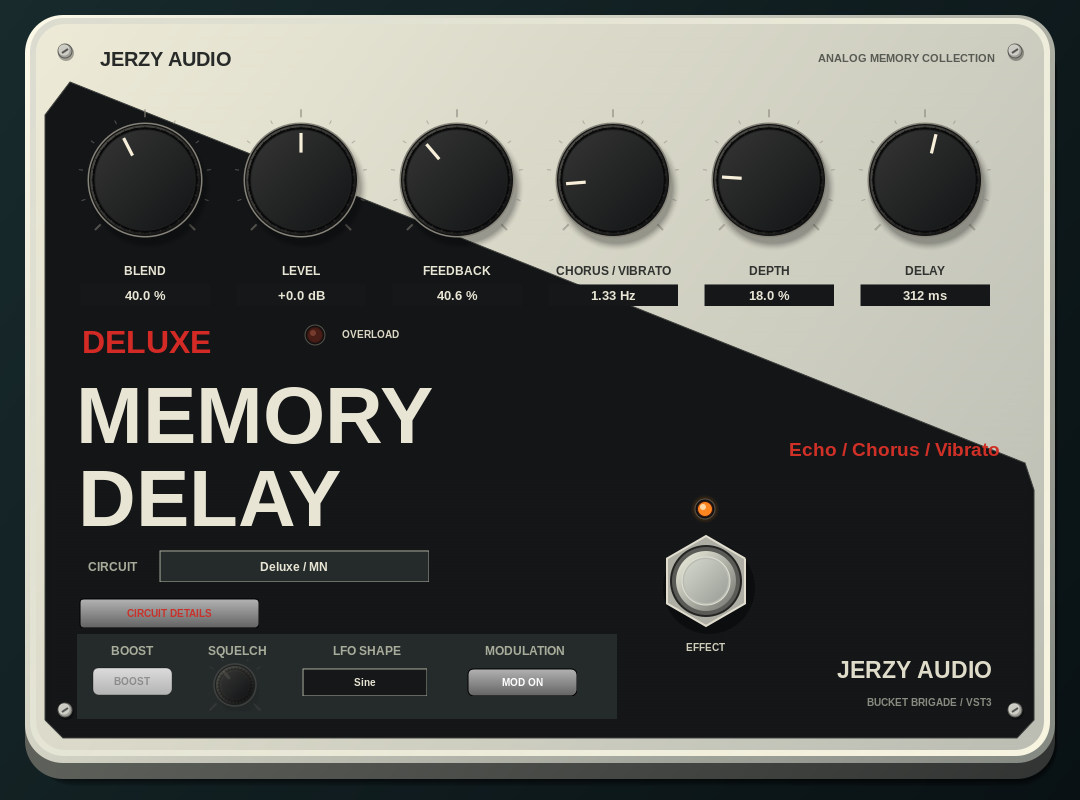
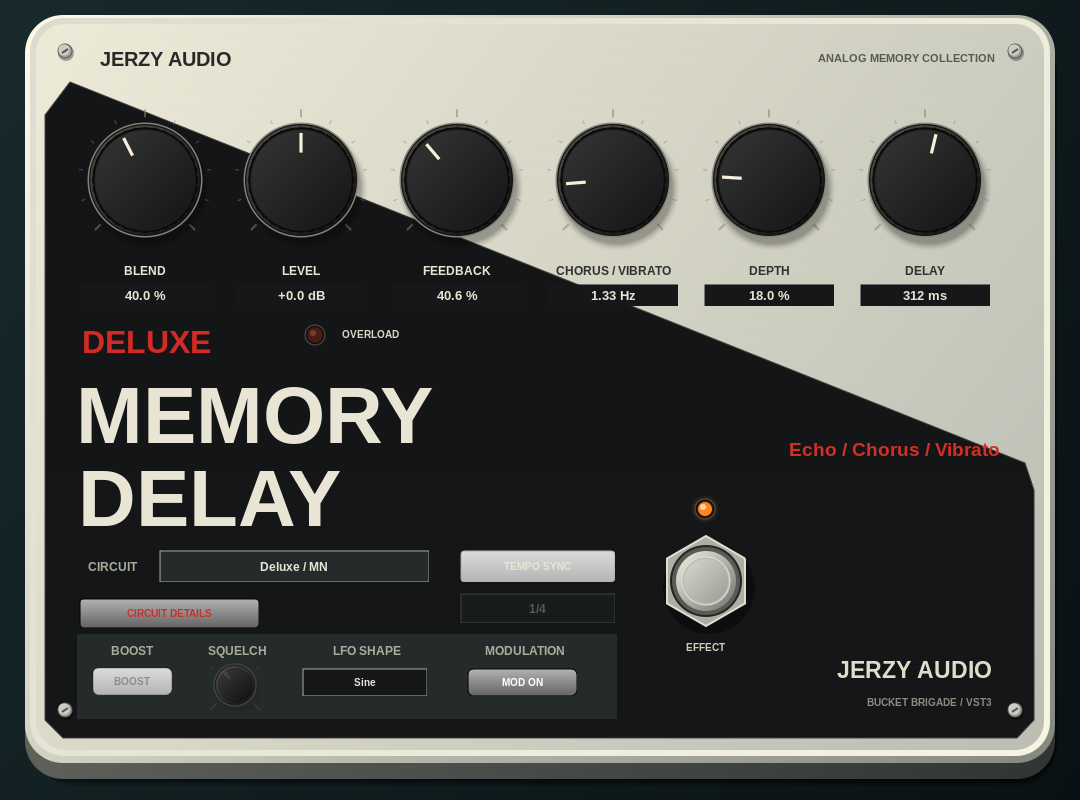
Add optional host tempo sync and 21 note divisions to all delay circuits

Changed region(s): [[0.4278, 0.6875, 0.5806, 0.7812]]

diff --git a/source/plugin.cpp b/source/plugin.cpp
@@ -5,6 +5,7 @@
 #include "public.sdk/source/main/pluginfactory.h"
 #include "base/source/fstreamer.h"
 #include "pluginterfaces/vst/ivstparameterchanges.h"
+#include "pluginterfaces/vst/ivstprocesscontext.h"
 #include "pluginterfaces/vst/vstspeaker.h"
 #if JERZY_GUI
 #include "vstgui/plugin-bindings/vst3editor.h"
@@ -21,15 +22,15 @@ static const FUID controllerID(0xBE7CA5D9,0xCA984617,0xB99A5712,0x2F38D819);
 bool readState(IBStream* stream,Parameters& p){
     if(!stream)return false;
     IBStreamer s(stream,kLittleEndian);int32 version=0;
-    if(!s.readInt32(version)||(version!=1&&version!=2))return false;
+    if(!s.readInt32(version)||(version<1||version>3))return false;
     Parameters next;
-    for(int i=0;i<(version==1?9:Count);++i){double v;if(!s.readDouble(v)||!std::isfinite(v))return false;next.set(i,v);}
+    for(int i=0;i<(version==1?9:version==2?12:Count);++i){double v;if(!s.readDouble(v)||!std::isfinite(v))return false;next.set(i,v);}
     p=next;return true;
 }
 class Processor final:public AudioEffect {
-    Parameters p;Engine engine;
+    Parameters p;Engine engine;double tempo=120.;
 public:
-    Processor(){setControllerClass(controllerID);}
+    Processor(){setControllerClass(controllerID);processContextRequirements.needTempo();}
     static FUnknown* create(void*){return static_cast<IAudioProcessor*>(new Processor);}
     tresult PLUGIN_API initialize(FUnknown* context) SMTG_OVERRIDE {
         auto r=AudioEffect::initialize(context);if(r!=kResultOk)return r;
@@ -46,10 +47,11 @@ public:
     tresult PLUGIN_API setState(IBStream* s) SMTG_OVERRIDE {return readState(s,p)?kResultOk:kResultFalse;}
     tresult PLUGIN_API getState(IBStream* stream) SMTG_OVERRIDE {
         if(!stream)return kResultFalse;IBStreamer s(stream,kLittleEndian);
-        if(!s.writeInt32(2))return kResultFalse;
+        if(!s.writeInt32(3))return kResultFalse;
         for(auto v:p.value)if(!s.writeDouble(v))return kResultFalse;return kResultOk;
     }
     tresult PLUGIN_API process(ProcessData& d) SMTG_OVERRIDE {
+        if(d.processContext&&(d.processContext->state&ProcessContext::kTempoValid)&&validTempo(d.processContext->tempo))tempo=d.processContext->tempo;
         if(d.symbolicSampleSize!=kSample32&&d.symbolicSampleSize!=kSample64)return kResultFalse;
         // Fixed-size queue cursors: no allocation, locks or sorting on the audio thread.
         std::array<IParamValueQueue*,Count> queues{};std::array<int32,Count> cursors{};
@@ -75,7 +77,7 @@ public:
                 if(d.symbolicSampleSize==kSample32){auto** b=d.inputs[0].channelBuffers32;if(!silent&&b&&b[c])input[c]=b[c][sample];}
                 else{auto** b=d.inputs[0].channelBuffers64;if(!silent&&b&&b[c])input[c]=b[c][sample];}
             }
-            engine.tick(input,output,ch,p);
+            engine.tick(input,output,ch,p,tempo);
             for(int c=0;c<ch;++c){
                 if(d.symbolicSampleSize==kSample32){auto** b=d.outputs[0].channelBuffers32;if(b&&b[c])b[c][sample]=static_cast<float>(output[c]);}
                 else{auto** b=d.outputs[0].channelBuffers64;if(b&&b[c])b[c][sample]=output[c];}
@@ -122,6 +124,10 @@ public:
         parameters.addParameter(STR16("Boost"),nullptr,1,defaults[Boost],ParameterInfo::kCanAutomate,Boost);
         parameters.addParameter(new RangeParameter(STR16("Squelch"),Squelch,STR16("%"),0,100,defaults[Squelch]*100));
         parameters.addParameter(STR16("Modulation"),nullptr,1,defaults[ModEnable],ParameterInfo::kCanAutomate,ModEnable);
+        parameters.addParameter(STR16("Tempo Sync"),nullptr,1,defaults[TempoSync],ParameterInfo::kCanAutomate,TempoSync);
+        auto* notes=new StringListParameter(STR16("Note Division"),Division);
+        for(const auto& note:divisions){String128 name{};UString(name,128).fromAscii(note.name);notes->appendString(name);}
+        notes->setNormalized(defaults[Division]);parameters.addParameter(notes);
         parameters.addParameter(STR16("Overload"),nullptr,0,0,ParameterInfo::kIsReadOnly,OverloadMeter);
         return kResultOk;
     }
@@ -141,7 +147,7 @@ public:
 }
 BEGIN_FACTORY_DEF("Jerzy Audio","","")
 DEF_CLASS2(INLINE_UID_FROM_FUID(Jerzy::processorID),PClassInfo::kManyInstances,kVstAudioEffectClass,
-    "Jerzy Memory Delay",Vst::kDistributable,"Fx|Delay","0.1.0",kVstVersionString,Jerzy::Processor::create)
+    "Jerzy Memory Delay",Vst::kDistributable,"Fx|Delay","0.1.1",kVstVersionString,Jerzy::Processor::create)
 DEF_CLASS2(INLINE_UID_FROM_FUID(Jerzy::controllerID),PClassInfo::kManyInstances,kVstComponentControllerClass,
-    "Jerzy Memory Delay Controller",0,"","0.1.0",kVstVersionString,Jerzy::Controller::create)
+    "Jerzy Memory Delay Controller",0,"","0.1.1",kVstVersionString,Jerzy::Controller::create)
 END_FACTORY

diff --git a/tests/host_tests.cpp b/tests/host_tests.cpp
@@ -3,9 +3,11 @@
 #include "public.sdk/source/vst/hosting/hostclasses.h"
 #include "public.sdk/source/vst/hosting/parameterchanges.h"
 #include "public.sdk/source/common/memorystream.h"
+#include "base/source/fstreamer.h"
 #include "pluginterfaces/vst/ivstaudioprocessor.h"
 #include "pluginterfaces/vst/ivsteditcontroller.h"
 #include "pluginterfaces/vst/vstspeaker.h"
+#include "pluginterfaces/vst/ivstprocesscontext.h"
 #include <iostream>
 #include <stdexcept>
 #include <cstring>
@@ -45,6 +47,15 @@ int main(int argc,char** argv){try{
  {ParameterChanges defaults(Jerzy::Count);for(int id=0;id<Jerzy::Count;++id)point(defaults,id,Jerzy::defaults[id]);data.inputParameterChanges=&defaults;processor->process(data);}
  component->getState(&initial);initial.seek(0,IBStream::kIBSeekSet,nullptr);controller->setComponentState(&initial);
  for(int id=0;id<Jerzy::Count;++id)check(std::abs(controller->getParamNormalized(id)-Jerzy::defaults[id])<1e-9,"default mismatch");
+ // Existing 0.1.0 sessions have version 2 and exactly 12 parameters.
+ // New sync controls must default to OFF / quarter note without shifting old IDs.
+ for(int version:{1,2}){
+  MemoryStream legacy;IBStreamer stream(&legacy,kLittleEndian);stream.writeInt32(version);
+  for(int id=0;id<(version==1?9:12);++id)stream.writeDouble(Jerzy::defaults[id]);
+  legacy.seek(0,IBStream::kIBSeekSet,nullptr);check(component->setState(&legacy)==kResultOk,"legacy processor state rejected");
+  legacy.seek(0,IBStream::kIBSeekSet,nullptr);check(controller->setComponentState(&legacy)==kResultOk,"legacy controller state rejected");
+  for(int id=0;id<Jerzy::Count;++id)check(std::abs(controller->getParamNormalized(id)-Jerzy::defaults[id])<1e-9,"legacy state changed defaults");
+ }
  // Real host buffers: both precisions, mono/stereo, true in-place operation.
  for(auto size:{kSample32,kSample64})for(int channels:{1,2}){
   SpeakerArrangement arrangement=channels==1?SpeakerArr::kMono:SpeakerArr::kStereo;
@@ -69,6 +80,27 @@ int main(int argc,char** argv){try{
   check(processor->process(data)==kResultOk,"sample-offset automation processing");
   for(int i=0;i<128;++i)check(std::abs((size==kSample32?double(f[0][i]):d[0][i])-.2)<1e-7,"automation applied before sample offset");
   check((size==kSample32?double(f[0][255]):d[0][255])<.19,"automation event not applied");
+  processor->setProcessing(false);component->setActive(false);
+ }
+ // Drive actual VST3 processContext tempo into the plugin, then change it.
+ SpeakerArrangement stereo=SpeakerArr::kStereo;processor->setBusArrangements(&stereo,1,&stereo,1);
+ ProcessSetup syncSetup{};syncSetup.processMode=kRealtime;syncSetup.symbolicSampleSize=kSample32;syncSetup.maxSamplesPerBlock=256;syncSetup.sampleRate=48000;
+ processor->setupProcessing(syncSetup);ProcessContext context{};context.state=ProcessContext::kTempoValid;
+ for(double bpm:{100.,150.}){
+  context.tempo=bpm;component->setActive(true);processor->setProcessing(true);
+  float samples[2][256]{};float* buffers[2]{samples[0],samples[1]};AudioBusBuffers bus{};bus.numChannels=2;bus.channelBuffers32=buffers;
+  data={};data.symbolicSampleSize=kSample32;data.numSamples=256;data.numInputs=data.numOutputs=1;data.inputs=data.outputs=&bus;data.processContext=&context;data.inputParameterChanges=&changes;
+  changes.clearQueue();for(int id=0;id<Jerzy::Count;++id)point(changes,id,Jerzy::defaults[id]);
+  point(changes,Jerzy::Blend,1);point(changes,Jerzy::Feedback,0);point(changes,Jerzy::Depth,0);point(changes,Jerzy::TempoSync,1);point(changes,Jerzy::Division,.3);
+  double peak=0.;int peakAt=0;
+  for(int block=0;block<140;++block){
+   for(auto& channel:samples)std::fill(std::begin(channel),std::end(channel),0.f);
+   if(block==0)samples[0][0]=.5f;
+   bus.silenceFlags=0;check(processor->process(data)==kResultOk,"host tempo processing");changes.clearQueue();
+   for(int i=0;i<256;++i)if(std::abs(samples[0][i])>peak){peak=std::abs(samples[0][i]);peakAt=block*256+i;}
+  }
+  const int expected=int(48000.*60./bpm);
+  check(peak>1e-8&&peakAt>=expected-2&&peakAt<expected+384,"host BPM not applied to sync delay");
   processor->setProcessing(false);component->setActive(false);
  }
  controller->terminate();component->terminate();controller=nullptr;processor=nullptr;component=nullptr;

diff --git a/source/dsp.h b/source/dsp.h
@@ -29,10 +29,10 @@ public:
     }
     double peak()const{return overload;}
     // Single-sample entry supports sample-offset host automation and in-place audio.
-    void tick(const double* input,double* output,int count,const Parameters& p){
+    void tick(const double* input,double* output,int count,const Parameters& p,double tempo=120.){
         if(channels[0].line.empty()){for(int c=0;c<count;++c)output[c]=input[c];return;}
         const double smoothing=1.-std::exp(-1./(.012*sr));
-        if(first){smooth=p.value;activeModel=p.model();delaySamples=std::min(delayMs(smooth[Delay]),profiles[activeModel].maxMs)*sr*.001;first=false;}
+        if(first){smooth=p.value;activeModel=p.model();delaySamples=requestedDelayMs(p,smooth[Delay],activeModel,tempo)*sr*.001;first=false;}
         // Switching physical circuits fades through dry audio and clears the old circuit.
         if(activeModel!=p.model()){
             modelFade=std::max(0.,modelFade-1./(.02*sr));
@@ -40,12 +40,12 @@ public:
                 for(auto& c:channels){std::fill(c.line.begin(),c.line.end(),0.);c.pre1=c.pre2=c.post1=c.post2=c.low=c.feedback=c.env=c.boostLow=c.previousCharge=c.heldCharge=c.oldHeldCharge=c.compressEnv=c.expandEnv=0.;}
                 pos=0;clockPhase=0.;
                 activeModel=p.model();
-                delaySamples=std::min(delayMs(smooth[Delay]),profiles[activeModel].maxMs)*sr*.001;
+                delaySamples=requestedDelayMs(p,smooth[Delay],activeModel,tempo)*sr*.001;
             }
         }else modelFade=std::min(1.,modelFade+1./(.02*sr));
         const auto& profile=profiles[activeModel];
         for(int i=0;i<Count;++i)smooth[i]+=smoothing*(p.value[i]-smooth[i]);
-        const double target=std::min(delayMs(smooth[Delay]),profile.maxMs)*sr*.001;
+        const double target=requestedDelayMs(p,smooth[Delay],activeModel,tempo)*sr*.001;
         delaySamples+=(1.-std::exp(-1./(.035*sr)))*(target-delaySamples);
         const double rate=.15+7.85*smooth[ModRate];
         phase+=rate/sr;if(phase>=1.)phase-=1.;
@@ -56,7 +56,8 @@ public:
         const double tickRate=profile.stages/std::max(2.,delaySamples*(1.+depth*lfo));
         const double initialPhase=clockPhase;
         // Tracking low-pass loses bandwidth as the BBD clock slows down.
-        const double cutoff=std::min(sr*.22,profile.bandwidth*std::sqrt(180./std::max(20.,delaySamples*1000./sr)));
+        double cutoff=std::min(sr*.22,profile.bandwidth*std::sqrt(180./std::max(20.,delaySamples*1000./sr)));
+        if(p.value[TempoSync]>=.5)cutoff=std::min(cutoff,.22*tickRate*sr);
         const double a=1.-std::exp(-2*pi*cutoff/sr),hp=1.-std::exp(-2*pi*65./sr);
         const double gain=std::pow(10.,(-12.+24.*smooth[Level])/20.);
         const double mix=smooth[Blend],fb=profile.feedbackMax*smooth[Feedback];

diff --git a/source/parameters.h b/source/parameters.h
@@ -3,9 +3,19 @@
 #include <array>
 #include <cmath>
 namespace Jerzy {
-enum Param { Blend, Level, Feedback, ModRate, Depth, Delay, Model, Wave, Bypass, Boost, Squelch, ModEnable, Count };
+enum Param { Blend, Level, Feedback, ModRate, Depth, Delay, Model, Wave, Bypass, Boost, Squelch, ModEnable, TempoSync, Division, Count };
 inline constexpr unsigned OverloadMeter=100;
-inline constexpr std::array<double,Count> defaults{{.4,.5,.35,.15,.18,.55,.6,0.,0.,0.,.35,1.}};
+inline constexpr std::array<double,Count> defaults{{.4,.5,.35,.15,.18,.55,.6,0.,0.,0.,.35,1.,0.,.3}};
+struct NoteDivision { const char* name; double beats; };
+inline constexpr std::array<NoteDivision,21> divisions{{
+    {"1/1",4.},{"1/1 D",6.},{"1/1 T",8./3.},
+    {"1/2",2.},{"1/2 D",3.},{"1/2 T",4./3.},
+    {"1/4",1.},{"1/4 D",1.5},{"1/4 T",2./3.},
+    {"1/8",.5},{"1/8 D",.75},{"1/8 T",1./3.},
+    {"1/16",.25},{"1/16 D",.375},{"1/16 T",1./6.},
+    {"1/32",.125},{"1/32 D",.1875},{"1/32 T",1./12.},
+    {"1/64",.0625},{"1/64 D",.09375},{"1/64 T",1./24.}
+}};
 inline constexpr std::array<const char*,6> modelNames{{"EH7500 / SAD", "Issue A / SAD", "Squelch / SAD", "Deluxe / MN", "Boy / BL", "Toy / BL"}};
 struct Profile { double maxMs, bandwidth, drive, feedbackMax, gate, modulation; bool compander; int stages; };
 // Sound-design profiles, not measured component models. See docs/MODELLING.md.
@@ -24,4 +34,13 @@ struct Parameters {
     int model()const { return std::clamp(int(std::lround(value[Model]*5)),0,5); }
 };
 inline double delayMs(double n) { return 20.+530.*normalized(n); }
+inline int divisionIndex(double n){return int(std::lround(normalized(n)*double(divisions.size()-1)));}
+inline bool validTempo(double bpm){return std::isfinite(bpm)&&bpm>=10.&&bpm<=1000.;}
+inline double syncedDelayMs(double division,double bpm){
+    return 60000./(validTempo(bpm)?bpm:120.)*divisions[divisionIndex(division)].beats;
+}
+inline double requestedDelayMs(const Parameters& p,double freeDelay,int model,double bpm){
+    // Sync deliberately extends the clock range so long note values remain in time.
+    return p.value[TempoSync]>=.5?syncedDelayMs(p.value[Division],bpm):std::min(delayMs(freeDelay),profiles[model].maxMs);
+}
 }

diff --git a/scripts/generate_ui.py b/scripts/generate_ui.py
@@ -9,7 +9,7 @@ colors=ET.SubElement(root,'colors')
 for name,value in [('Cream','#e8e5d4ff'),('Dark','#151719ff'),('Ink','#30332fff'),('Red','#c8322aff'),('Muted','#a8ad9bff'),('Drawer','#252a2bff')]:
  ET.SubElement(colors,'color',{'name':name,'rgba':value})
 tags=ET.SubElement(root,'control-tags')
-names=['Blend','Level','Feedback','Rate','Depth','Delay','Model','Wave','Bypass','Boost','Squelch','ModEnable']
+names=['Blend','Level','Feedback','Rate','Depth','Delay','Model','Wave','Bypass','Boost','Squelch','ModEnable','TempoSync','Division']
 for i,n in enumerate(names):ET.SubElement(tags,'control-tag',name=n,tag=str(i))
 ET.SubElement(tags,'control-tag',name='Overload',tag='100')
 ET.SubElement(tags,'control-tag',name='Details',tag='900')
@@ -28,6 +28,8 @@ add(view,'MemoryLed',300,320,30,30,control_tag='Overload',mouse_enabled='false')
 label(view,75,554,75,24,'CIRCUIT',color='Muted')
 add(view,'COptionMenu',159,550,270,32,control_tag='Model',font='Label',font_color='Cream',back_color='Drawer',frame_color='Muted',tooltip='Choose the modeled circuit; switching fades through dry audio')
 add(view,'CTextButton',79,598,180,30,control_tag='Details',title='CIRCUIT DETAILS',font='Small',text_color='Cream',text_color_highlighted='Red',frame_color='Muted',kick_style='false',round_radius='4')
+add(view,'CTextButton',460,550,155,32,control_tag='TempoSync',title='TEMPO SYNC',font='Small',text_color='Cream',text_color_highlighted='Red',frame_color='Muted',kick_style='false',round_radius='4',tooltip='Follow host tempo (FL Studio / VST3). Off restores the original Delay control.')
+add(view,'COptionMenu',460,593,155,30,control_tag='Division',font='Label',font_color='Cream',back_color='Drawer',frame_color='Muted',tooltip='D = dotted; T = triplet. Sync extends the clock range for exact musical timing.')
 add(view,'MemoryFootswitch',650,525,112,112,control_tag='Bypass',tooltip='Effect bypass')
 add(view,'MemoryLed',690,494,30,30,control_tag='Bypass',mouse_enabled='false')
 # Local UI drawer: not a sound parameter and intentionally not saved in DAW state.

diff --git a/tests/dsp_tests.cpp b/tests/dsp_tests.cpp
@@ -6,6 +6,25 @@ using namespace Jerzy;
 void check(bool ok,const char* message){if(!ok)throw std::runtime_error(message);}
 int main(){try{
     int cases=0;
+    for(double bpm:{60.,120.,180.})for(int note=0;note<int(divisions.size());++note){
+        const double division=double(note)/double(divisions.size()-1);
+        check(std::abs(syncedDelayMs(division,bpm)-60000./bpm*divisions[note].beats)<1e-9,"note division math");++cases;
+    }
+    check(syncedDelayMs(.3,std::numeric_limits<double>::quiet_NaN())==500.,"invalid tempo fallback");++cases;
+    for(int model=0;model<6;++model){
+        // A quarter note at 100 BPM is 600 ms: longer than every free-mode cap.
+        // Every circuit must honour the musical duration instead of truncating it.
+        Engine e;e.prepare(48000);Parameters p;p.set(Model,model/5.);p.set(TempoSync,1);p.set(Division,.3);
+        p.set(Blend,1);p.set(Feedback,0);p.set(Depth,0);p.set(Squelch,0);
+        int peakAt=0;double peak=0,early=0;
+        for(int i=0;i<34000;++i){double in[2]{i==0?.5:0,0},out[2]{};e.tick(in,out,2,p,100.);
+            if(i<28798)early+=std::abs(out[0]);
+            if(std::abs(out[0])>peak){peak=std::abs(out[0]);peakAt=i;}
+        }
+        check(peak>1e-10&&early<1e-12,"sync missing echo or capped to hardware range");
+        check(peakAt>=28798&&peakAt<29184,"sync impulse timing");++cases;
+        p.set(TempoSync,0);check(requestedDelayMs(p,1.,model,100.)==profiles[model].maxMs,"free-mode hardware range changed");++cases;
+    }
     for(double sr:{44100.,48000.,96000.})for(int model=0;model<6;++model){
         Engine e;e.prepare(sr);Parameters p;p.set(Model,model/5.);p.set(Blend,1);p.set(Feedback,0);p.set(Depth,0);p.set(Delay,80./530.);
         int peakAt=0;double peak=0,pre=0;

diff --git a/source/editor.cpp b/source/editor.cpp
@@ -2,6 +2,7 @@
 #include "vstgui/plugin-bindings/vst3editor.h"
 #include "vstgui/lib/controls/cknob.h"
 #include "vstgui/lib/controls/cbuttons.h"
+#include "vstgui/lib/controls/ctextlabel.h"
 #include "vstgui/lib/cdrawcontext.h"
 #include "vstgui/lib/cgraphicspath.h"
 #include "vstgui/lib/cgradient.h"
@@ -11,6 +12,7 @@
 #include "vstgui/uidescription/iviewcreator.h"
 #include "vstgui/uidescription/uiattributes.h"
 #include <vector>
+#include <cstdio>
 namespace Jerzy {
 using namespace VSTGUI;
 namespace {
@@ -128,7 +130,19 @@ class Editor final:public VST3Editor {
  std::vector<CControl*> controls;CView* details=nullptr;SharedPointer<CVSTGUITimer> timer;
  void refresh(){
   int model=std::clamp(int(std::lround(getController()->getParamNormalized(Model)*5)),0,5);
+  const bool sync=getController()->getParamNormalized(TempoSync)>=.5;
   for(auto* c:controls){auto tag=c->getTag();bool enabled=true;
+   if(auto* label=dynamic_cast<CTextLabel*>(c)){
+    if(tag==Delay){
+     char text[32]{};
+     if(sync)std::snprintf(text,sizeof(text),"%s",divisions[divisionIndex(getController()->getParamNormalized(Division))].name);
+     else std::snprintf(text,sizeof(text),"%.0f ms",delayMs(getController()->getParamNormalized(Delay)));
+     label->setText(text);
+    }
+    continue;
+   }
+   if(tag==Delay)enabled=!sync;
+   if(tag==Division)enabled=sync;
    if(tag==ModRate||tag==Depth||tag==Wave||tag==ModEnable)enabled=model>=3;
    if(tag==Boost)enabled=model==0;if(tag==Squelch)enabled=model==1||model==2;
    bool led=dynamic_cast<Led*>(c)!=nullptr;if(led)enabled=false;

diff --git a/tests/gui_smoke.cpp b/tests/gui_smoke.cpp
@@ -95,6 +95,10 @@ int main(int argc,char** argv){try{
  auto click=[&](int x,int y){motion(display,-1,x,y,0);button(display,1,True,0);button(display,1,False,0);XFlush(display);host->pump(150);};
  click(705,580);check(controller->getParamNormalized(Jerzy::Bypass)>.5&&host->edited==Jerzy::Bypass,"footswitch did not automate bypass");
  click(705,580);check(controller->getParamNormalized(Jerzy::Bypass)<.5,"footswitch did not re-enable effect");
+ click(535,566);check(controller->getParamNormalized(Jerzy::TempoSync)>.5&&host->edited==Jerzy::TempoSync,"tempo sync button did not automate");
+ int beforeFreeKnob=host->edits;click(925,180);check(host->edits==beforeFreeKnob,"free delay knob active during sync");
+ host->capture((std::string(argv[2])+"-sync.ppm").c_str(),size.getWidth(),size.getHeight());
+ click(535,566);check(controller->getParamNormalized(Jerzy::TempoSync)<.5,"tempo sync did not disable");
  click(170,613);host->capture((std::string(argv[2])+"-details.ppm").c_str(),size.getWidth(),size.getHeight());
  controller->setParamNormalized(Jerzy::Model,0);host->pump(150);
  int edits=host->edits;click(110,681);check(host->edits>edits&&host->edited==Jerzy::Boost,"EH7500 boost unavailable");

diff --git a/README.md b/README.md
@@ -34,6 +34,9 @@ Gotowe paczki są publikowane automatycznie po pomyślnej kompilacji i testach o
 - Depth: głębokość modulacji zegara. Delay: żądany czas 20…550 ms, ograniczony zakresem modelu (Early 300 ms, Squelch 400 ms).
 - Circuit: zmiana układu; stary ogon jest wygaszany, a obwód przełączany przez sygnał bezpośredni.
 - Circuit Details: Boost, Squelch, kształt LFO i włącznik modulacji. Kontrolki nieobecne w danym obwodzie są nieaktywne.
+- Tempo Sync: synchronizacja czasu echa z BPM hosta, również FL Studio. Włącz przycisk **TEMPO SYNC** i wybierz podział poniżej. Dostępne są `1/1`, `1/2`, `1/4`, `1/8`, `1/16`, `1/32`, `1/64`, każdy w wersji prostej, z kropką (`D`) i triolowej (`T`).
+- Sync jest domyślnie wyłączony; stare sesje zachowują ustawienia i brzmienie. Po wyłączeniu Sync ponownie działa gałka Delay z poprzednią wartością. W Sync gałka jest nieaktywna, a jej wyświetlacz pokazuje wybrany podział. Tempo jest pobierane przez VST3 z hosta; jeżeli host chwilowo go nie przekaże, pozostaje ostatnia poprawna wartość (przy starcie 120 BPM). Obsługiwany zakres wynosi 10–1000 BPM.
+- Długie podziały w Sync rozszerzają zakres zegara BBD zamiast skracać nutę do limitu sprzętowego. Przy wolnym zegarze echo staje się ciemniejsze; czasy ręczne i dotychczasowe profile pozostają bez zmian.
 - Footswitch: bypass; pomarańczowa dioda wskazuje aktywny efekt, czerwona przeciążenie wejścia.
 - Prawy przycisk na gałce przywraca ustawienie domyślne. Shift umożliwia precyzyjniejszy ruch. Menu kontekstowe edytora zawiera skalę GUI.
 

diff --git a/docs/MODELLING.md b/docs/MODELLING.md
@@ -24,3 +24,9 @@ Rekonstrukcja nie obejmuje tolerancji poszczególnych kondensatorów, biasu każ
 ## Co wymaga porównania ze sprzętem
 
 Maksymalne czasy SAD, punkty filtrów, headroom, progi Squelch, charakterystyka LFO oraz współczesne profile Boy/Toy pozostają wartościami projektowymi. Nie należy opisywać ich jako pomierzonych. Wierność wymaga referencyjnych nagrań: sweep przy kilku czasach, impulsy, poziomy wejścia, przebiegi modulacji i narastanie sprzężenia. Kod i testy potwierdzają działanie wtyczki, nie historyczną zgodność brzmienia.
+
+## Synchronizacja tempa — 0.1.1
+
+Opcjonalny Sync pobiera BPM z VST3 ProcessContext (w tym od FL Studio). Czas wynosi `60000 / BPM × liczba ćwierćnut` dla wybranego podziału; D mnoży czas przez 1.5, T przez 2/3. Tryb Free zachowuje dotychczasowe limity i algorytm. Tryb Sync rozszerza zakres zegara, aby nawet długie nuty pozostawały w tempie. W tym trybie filtr wejściowy i wyjściowy są dodatkowo ograniczone do 22% częstotliwości transferu komórek. To rozszerzenie cyfrowe, a nie dodatkowa funkcja oryginalnych kostek. Zmiany BPM i podziału zachowują wygładzenie oraz efekt przestrajania BBD.
+
+Identyfikatory starych parametrów i obu klas VST3 pozostały bez zmian. Stan wersji 1 i 2 jest odczytywany z domyślnym Sync OFF; nowy stan wersji 3 przechowuje także Sync i podział.

diff --git a/docs/VALIDATION.md b/docs/VALIDATION.md
@@ -1,3 +1,9 @@
+# Walidacja 0.1.1 — Tempo Sync
+
+Lokalnie: 104 przypadki DSP, wszystkie 47 kontroli walidatora VST3, test hosta oraz GUI zakończone sukcesem. Nowe kontrole obejmują 21 podziałów przy 60/120/180 BPM, rzeczywisty impuls 600 ms we wszystkich sześciu modelach (bez przycinania do zakresów Free), BPM 100→150 przekazywane przez VST3 ProcessContext, odczyt starych sesji v1/v2 i klikanie Sync wraz z blokadą gałki ręcznego czasu.
+
+Nie wykonywano testu w zainstalowanym FL Studio; sprawdzono standardowy interfejs VST3 host tempo używany przez DAW. Natywny build Windows 0.1.1 zostanie zweryfikowany w GitHub Actions przed publikacją.
+
 # Walidacja 0.1.0 — 20.10.2026
 
 Potwierdzone w bieżącym środowisku Debian 13 x86_64, GCC 14.2, CMake 3.31.6:
